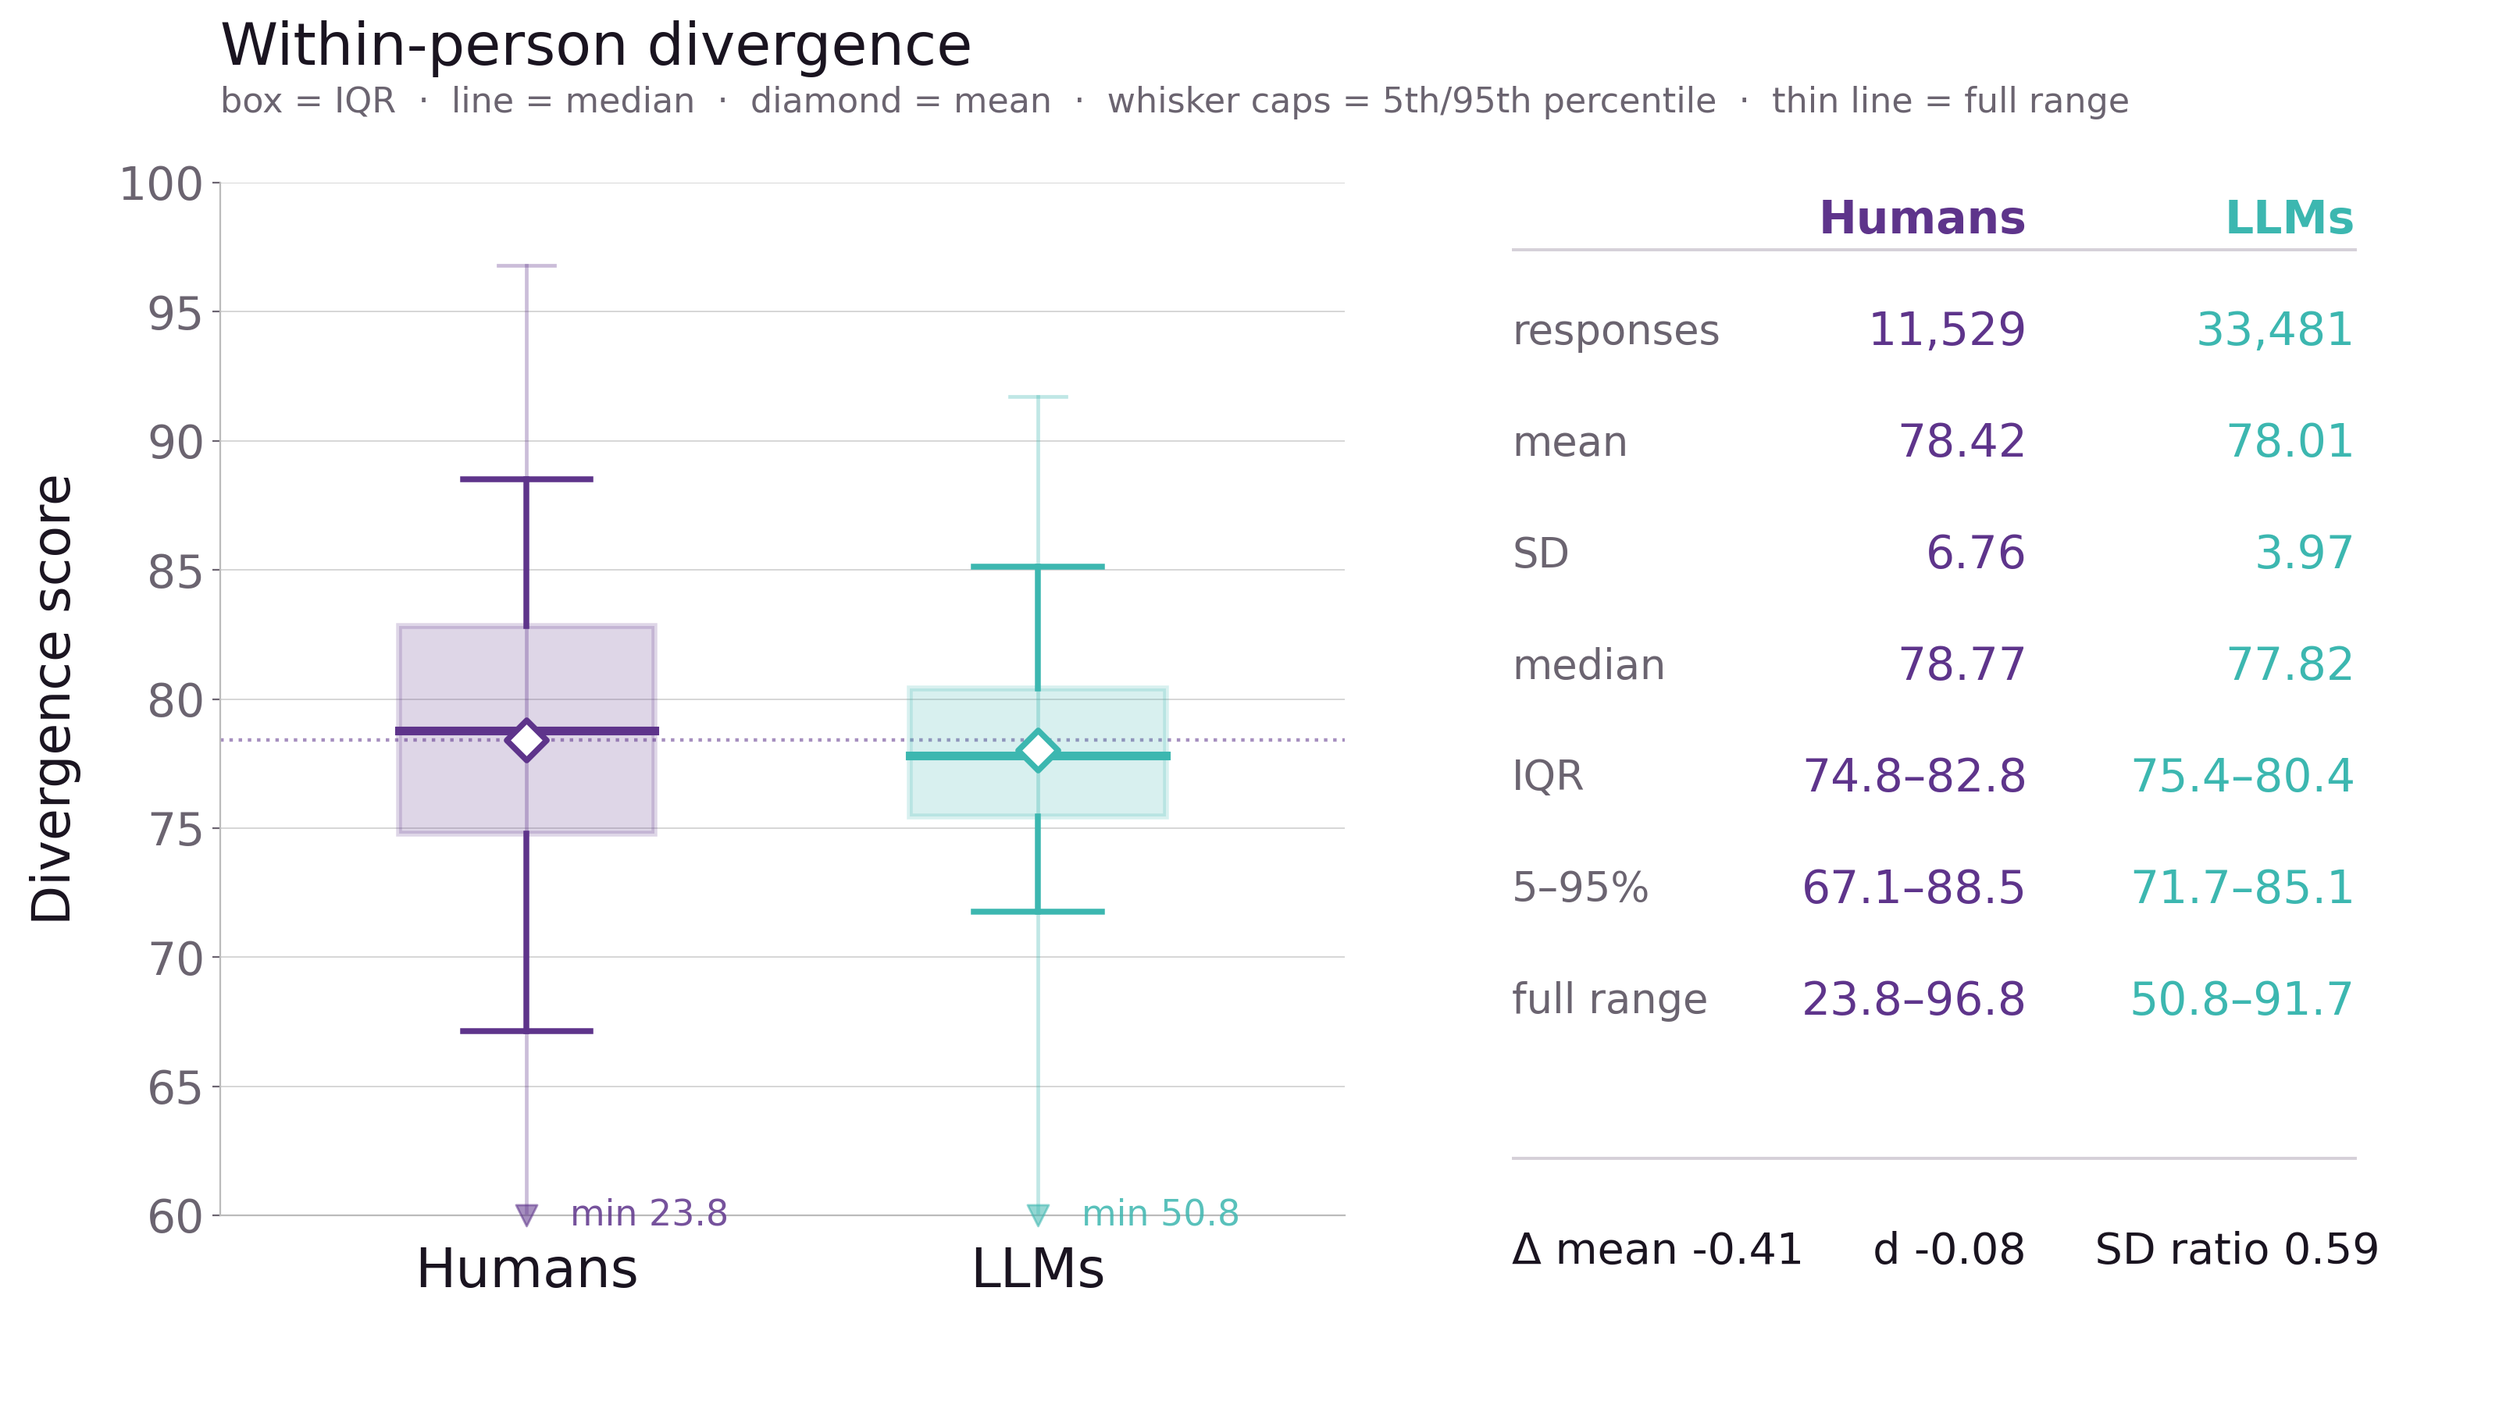
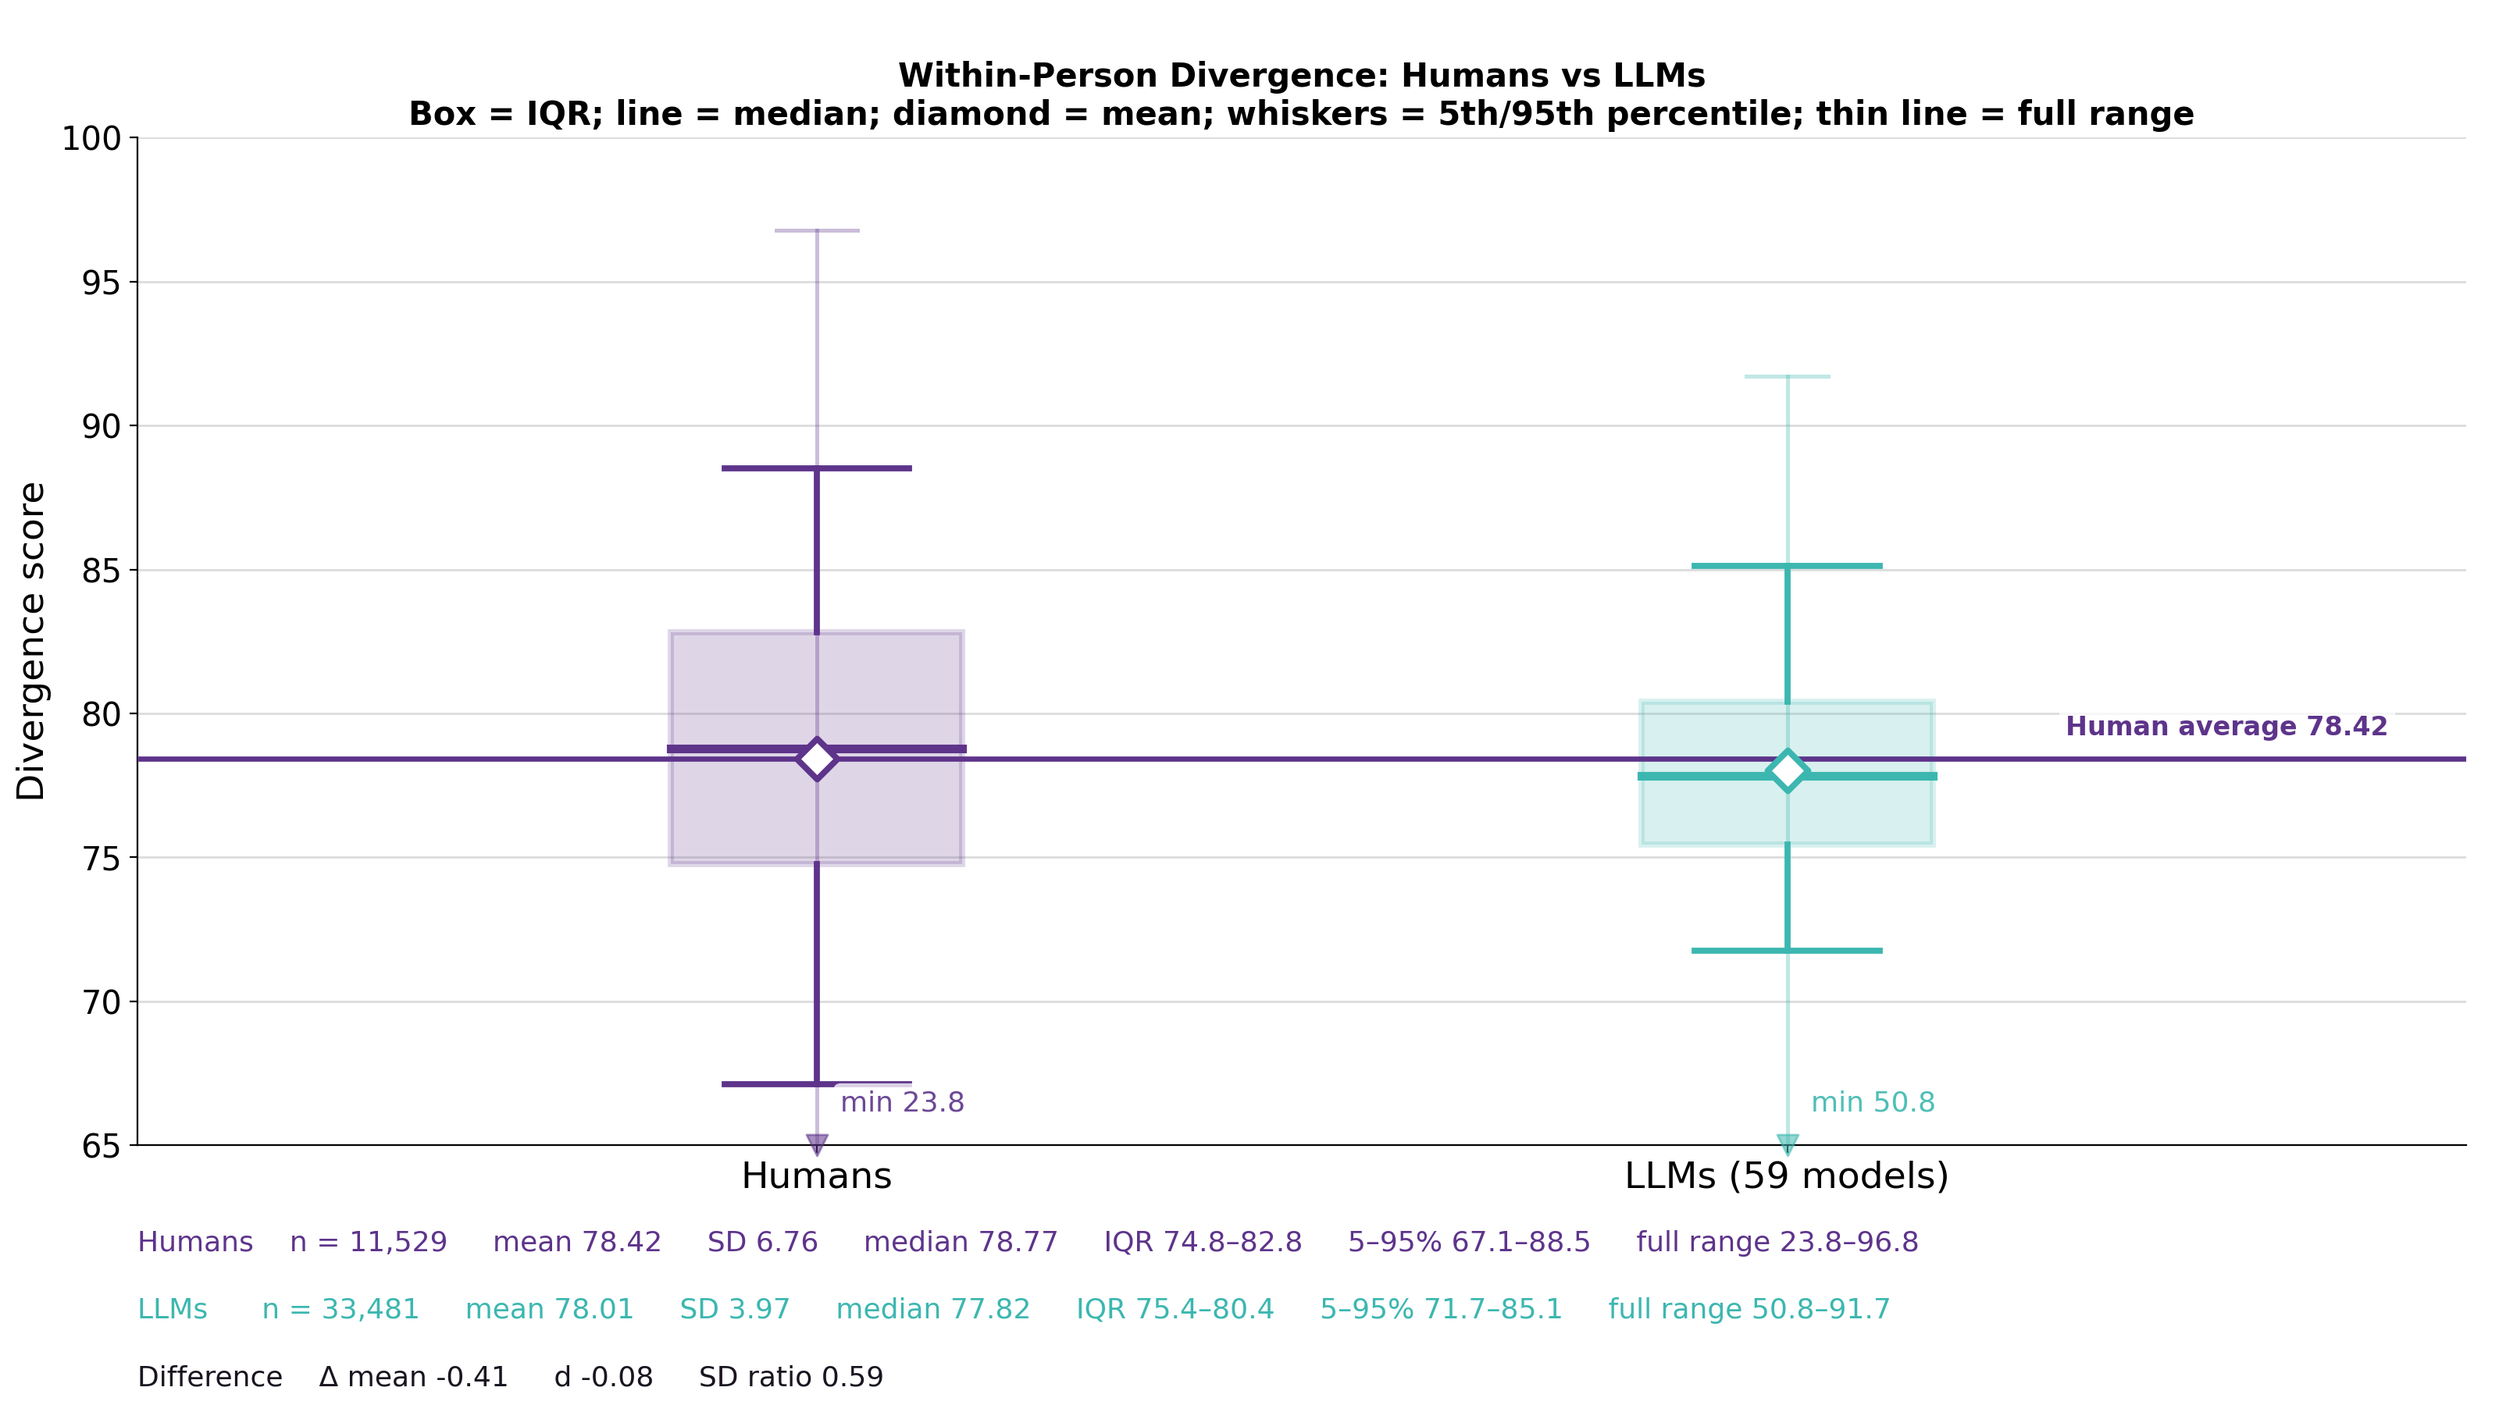
Style the cross-sectional figures from overtime_style
Set by Dawei: the box plots should look like the time series. They now import overtime_style
rather than carrying their own styling, so they share the 16:9 canvas, margins, grid colour and
weight, hidden top and right spines, title and axis-label sizes, and the human-baseline colour
and label treatment. Per the measure convention the human average is a solid line on the
within-person figure and dotted on the between-person one.

Y range 65 to 100 on both, step 5. Out-of-range bounds keep their caret and true value, now
labelled above the axis instead of on it.

diff --git a/analysis/fig6_cross_section_boxes.py b/analysis/fig6_cross_section_boxes.py
@@ -1,43 +1,42 @@
 """Cross-sectional comparison, two groups only: all humans vs all LLM responses.
 
   results/fig6_box_within_person.png   within-person divergence (DAT)
-  results/fig7_box_between_person.png  between-person uniqueness (human-only reference)
+  results/fig7_box_between_person.png  between-person uniqueness
 
-Reads the response-level scores written by build_overtime_data.py, so the measures can never
-drift from the over-time figures. Env: FIG_TITLE=0 drops the in-figure title (decks set their
-own headline); FIG_OUT overrides the output directory.
+Styling is imported from overtime_style, not copied, so these cannot drift from the three
+over-time figures: same 16:9 canvas, same margins, same grid, same spines, same title and
+label sizes, same human-baseline colour and label treatment. Per the measure convention the
+human baseline is a SOLID line on the within-person figure and DOTTED on the between-person one.
+
+Reads the response-level scores written by build_overtime_data.py.
+Env: FIG_BOX_YLIM (default "65,100"), FIG_BOX_YSTEP, FIG_NOTITLE / FIG_TITLE=0, FIG_OUT.
 """
 import os, sys, csv
-import numpy as np, matplotlib
-matplotlib.use("Agg")
-import matplotlib.pyplot as plt
+import numpy as np
+sys.path.insert(0, os.path.dirname(os.path.abspath(__file__)))
+from overtime_style import HUMAN_PURPLE, LBL_BOX, new_fig, save, plt, NOTITLE
 from matplotlib.patches import Rectangle
 
 ROOT = sys.argv[1] if len(sys.argv) > 1 else "/home/user/verify"
 DATA = os.environ.get("FIG_DATA", f"{ROOT}/analysis/data")
-OUT  = os.environ.get("FIG_OUT",  f"{ROOT}/results")
-SHOW_TITLE = os.environ.get("FIG_TITLE", "1") == "1"
-# One shared y range on both panels so the two measures are read on the same scale
-# (set by Dawei 2026-07-31). The human DAT tail runs below 50, so any series whose range
-# falls outside the window gets its true bound labelled at the axis rather than hidden.
-BOX_YLIM = tuple(float(x) for x in os.environ.get("FIG_BOX_YLIM", "60,100").split(","))
-BOX_YSTEP = float(os.environ.get("FIG_BOX_YSTEP", "5"))
+SHOW_TITLE = (not NOTITLE) and os.environ.get("FIG_TITLE", "1") == "1"
+YLIM  = tuple(float(x) for x in os.environ.get("FIG_BOX_YLIM", "65,100").split(","))
+YSTEP = float(os.environ.get("FIG_BOX_YSTEP", "5"))
 
-HUMAN, MACHINE = "#5E348B", "#3CB7B0"        # human purple / machine teal
-INK, MUTED, GRID = "#1a1420", "#6b6470", "#cccccc"
-
-def col(path, field, where=None):
-    out = []
-    with open(path, newline='') as fh:
-        for r in csv.DictReader(fh):
-            if where and not where(r): continue
-            v = r[field]
-            if v != "": out.append(float(v))
-    return np.array(out)
+MACHINE = "#3CB7B0"          # machine teal, as in every human-vs-machine figure
+INK, MUTED = "#1a1420", "#6b6470"
 
 H = f"{DATA}/response_scores_human.csv"
 M = f"{DATA}/response_scores_machine.csv"
-n_models = len({r['model_name'] for r in csv.DictReader(open(M))})
+N_MODELS = len({r['model_name'] for r in csv.DictReader(open(M))})
+MATCHED = lambda r: r['matched'] == '1'
+
+def col(path, field, where=None):
+    out = []
+    for r in csv.DictReader(open(path, newline='')):
+        if where and not where(r): continue
+        if r[field] != "": out.append(float(r[field]))
+    return np.array(out)
 
 def stats(v):
     q1, med, q3 = np.percentile(v, [25, 50, 75])
@@ -45,89 +44,76 @@ def stats(v):
     return dict(n=len(v), mean=v.mean(), sd=v.std(ddof=1), med=med, q1=q1, q3=q3,
                 p5=p5, p95=p95, lo=v.min(), hi=v.max())
 
-def box(ax, x, s, color, W=0.40):
+def box(ax, x, s, color, W=0.30):
     ylo, yhi = ax.get_ylim()
     lo, hi = max(s['lo'], ylo), min(s['hi'], yhi)
-    ax.plot([x, x], [lo, hi], color=color, lw=1.7, alpha=0.32, zorder=2)
-    for y, true_v, out in ((lo, s['lo'], s['lo'] < ylo), (hi, s['hi'], s['hi'] > yhi)):
-        if out:      # range continues past the axis: caret plus the true bound
-            ax.scatter([x], [y], marker='v' if true_v == s['lo'] else '^', s=95, color=color,
+    ax.plot([x, x], [lo, hi], color=color, lw=1.8, alpha=0.32, zorder=2)
+    for y, true_v in ((lo, s['lo']), (hi, s['hi'])):
+        outside = true_v < ylo or true_v > yhi
+        if outside:
+            ax.scatter([x], [y], marker='v' if true_v < ylo else '^', s=95, color=color,
                        alpha=0.55, zorder=3, clip_on=False)
-            ax.annotate(f"min {true_v:.1f}" if true_v == s['lo'] else f"max {true_v:.1f}",
-                        xy=(x + 0.085, y), ha='left', va='center', fontsize=16.5,
-                        color=color, alpha=0.85, zorder=7)
+            ax.annotate(("min " if true_v < ylo else "max ") + f"{true_v:.1f}", xy=(x, y),
+                        textcoords="offset points", xytext=(11, 13 if true_v < ylo else -13),
+                        ha='left', va='bottom' if true_v < ylo else 'top', fontsize=13,
+                        color=color, alpha=0.9, bbox=LBL_BOX, zorder=9)
         else:
-            ax.plot([x - 0.055, x + 0.055], [y, y], color=color, lw=1.7, alpha=0.32, zorder=2)
-    ax.plot([x, x], [s['p5'], s['q1']], color=color, lw=2.7, zorder=3)
-    ax.plot([x, x], [s['q3'], s['p95']], color=color, lw=2.7, zorder=3)
+            ax.plot([x - 0.042, x + 0.042], [y, y], color=color, lw=1.8, alpha=0.32, zorder=2)
+    ax.plot([x, x], [s['p5'], s['q1']], color=color, lw=2.8, zorder=3)
+    ax.plot([x, x], [s['q3'], s['p95']], color=color, lw=2.8, zorder=3)
     for y in (s['p5'], s['p95']):
-        ax.plot([x - 0.125, x + 0.125], [y, y], color=color, lw=2.7, zorder=3)
+        ax.plot([x - 0.095, x + 0.095], [y, y], color=color, lw=2.8, zorder=3)
     ax.add_patch(Rectangle((x - W/2, s['q1']), W, s['q3'] - s['q1'], facecolor=color, alpha=0.20,
-                           edgecolor=color, lw=2.7, zorder=4))
+                           edgecolor=color, lw=2.8, zorder=4))
     ax.plot([x - W/2, x + W/2], [s['med']] * 2, color=color, lw=4.0, zorder=5)
-    ax.scatter([x], [s['mean']], marker='D', s=170, facecolors='white', edgecolors=color,
-               linewidths=2.7, zorder=6)
+    ax.scatter([x], [s['mean']], marker='D', s=175, facecolors='white', edgecolors=color,
+               linewidths=2.8, zorder=6)
 
-ROWS = [("responses", lambda s: f"{s['n']:,}"),
-        ("mean",      lambda s: f"{s['mean']:.2f}"),
-        ("SD",        lambda s: f"{s['sd']:.2f}"),
-        ("median",    lambda s: f"{s['med']:.2f}"),
-        ("IQR",       lambda s: f"{s['q1']:.1f}\u2013{s['q3']:.1f}"),
-        ("5\u201395%",   lambda s: f"{s['p5']:.1f}\u2013{s['p95']:.1f}"),
-        ("full range",lambda s: f"{s['lo']:.1f}\u2013{s['hi']:.1f}")]
+def line(label, s, color):
+    return (f"{label}    n = {s['n']:,}     mean {s['mean']:.2f}     SD {s['sd']:.2f}     "
+            f"median {s['med']:.2f}     IQR {s['q1']:.1f}\u2013{s['q3']:.1f}     "
+            f"5\u201395% {s['p5']:.1f}\u2013{s['p95']:.1f}     "
+            f"full range {s['lo']:.1f}\u2013{s['hi']:.1f}"), color
 
-def table(fig, hs, ms, d):
-    ax = fig.add_axes([0.605, 0.135, 0.375, 0.735]); ax.axis('off')
-    ax.set_xlim(0, 1); ax.set_ylim(0, 1)
-    xl, xh, xm = 0.0, 0.55, 0.90
-    ax.text(xh, 0.985, "Humans", ha='right', va='top', fontsize=21, color=HUMAN, weight='bold')
-    ax.text(xm, 0.985, "LLMs",   ha='right', va='top', fontsize=21, color=MACHINE, weight='bold')
-    ax.plot([xl, xm], [0.935, 0.935], color='#d5d0d8', lw=1.4)
-    for i, (lab, f) in enumerate(ROWS):
-        y = 0.855 - i * 0.108
-        ax.text(xl, y, lab, ha='left', va='center', fontsize=19, color=MUTED)
-        ax.text(xh, y, f(hs), ha='right', va='center', fontsize=21, color=HUMAN)
-        ax.text(xm, y, f(ms), ha='right', va='center', fontsize=21, color=MACHINE)
-    ax.plot([xl, xm], [0.055, 0.055], color='#d5d0d8', lw=1.4)
-    ax.text(xl, -0.035, f"\u0394 mean {ms['mean']-hs['mean']:+.2f}     d {d:+.2f}     "
-                        f"SD ratio {ms['sd']/hs['sd']:.2f}",
-            ha='left', va='center', fontsize=20, color=INK)
-
-def render(hv, mv, ylab, title, sub, fname):
+def render(hv, mv, ylab, head, sub, within, fname):
     hs, ms = stats(hv), stats(mv)
-    d = (ms['mean'] - hs['mean']) / np.sqrt(((hs['n']-1)*hs['sd']**2 + (ms['n']-1)*ms['sd']**2) / (hs['n']+ms['n']-2))
-    fig = plt.figure(figsize=(16, 9))
-    ax = fig.add_axes([0.088, 0.135, 0.45, 0.735])
-    ax.set_ylim(*BOX_YLIM); ax.set_xlim(0.40, 2.60)
-    ax.set_yticks(np.arange(BOX_YLIM[0], BOX_YLIM[1] + 0.01, BOX_YSTEP))
-    ax.grid(axis='y', color=GRID, lw=0.7, alpha=0.8, zorder=0); ax.set_axisbelow(True)
-    ax.axhline(hs['mean'], color=HUMAN, lw=1.6, ls=':', alpha=0.55, zorder=1)
-    box(ax, 1.0, hs, HUMAN, W=0.50)
-    box(ax, 2.0, ms, MACHINE, W=0.50)
-    ax.set_xticks([1.0, 2.0]); ax.set_xticklabels(["Humans", "LLMs"], fontsize=25, color=INK)
-    ax.tick_params(axis='x', length=0, pad=14)
-    ax.tick_params(axis='y', labelsize=21, colors=MUTED)
-    ax.set_ylabel(ylab, fontsize=24, color=INK, labelpad=17)
-    for sp in ('top', 'right'): ax.spines[sp].set_visible(False)
-    for sp in ('left', 'bottom'): ax.spines[sp].set_color('#bbbbbb')
-    table(fig, hs, ms, d)
-    if SHOW_TITLE:
-        fig.text(0.088, 0.945, title, fontsize=27, color=INK, ha='left', va='bottom')
-        fig.text(0.088, 0.915, sub, fontsize=16, color=MUTED, ha='left', va='bottom')
-    else:
-        fig.text(0.088, 0.925, sub, fontsize=16, color=MUTED, ha='left', va='bottom')
-    fig.savefig(f"{OUT}/{fname}", dpi=200, facecolor='white')
-    plt.close(fig)
-    print(f"{fname}: human mean {hs['mean']:.2f} sd {hs['sd']:.2f} range {hs['lo']:.1f}-{hs['hi']:.1f} | "
-          f"machine mean {ms['mean']:.2f} sd {ms['sd']:.2f} range {ms['lo']:.1f}-{ms['hi']:.1f} | "
-          f"d {d:+.3f} sd ratio {ms['sd']/hs['sd']:.3f}")
+    d = (ms['mean'] - hs['mean']) / np.sqrt(((hs['n']-1)*hs['sd']**2 + (ms['n']-1)*ms['sd']**2)
+                                            / (hs['n']+ms['n']-2))
+    fig, ax = new_fig()
+    ax.set_xlim(0.30, 2.70); ax.set_ylim(*YLIM)
+    ax.set_yticks(np.arange(YLIM[0], YLIM[1] + 0.01, YSTEP))
+    ax.grid(which='major', axis='y', color='#dcdcdc', lw=1.0, zorder=0)
+    ax.set_axisbelow(True); ax.spines[['top', 'right']].set_visible(False)
 
-BOXNOTE = ("box = IQR  \u00b7  line = median  \u00b7  diamond = mean  \u00b7  "
-           "whisker caps = 5th/95th percentile  \u00b7  thin line = full range")
-MATCHED = lambda r: r['matched'] == '1'
-render(col(H, 'dat_score', MATCHED), col(M, 'dat_score'), "Divergence score",
-       "Within-person divergence", BOXNOTE, "fig6_box_within_person.png")
-# both panels use the identical matched human sample
-render(col(H, 'uniqueness_human_agnostic', MATCHED),
-       col(M, 'uniqueness_human_agnostic'), "Uniqueness score",
-       "Between-person uniqueness", BOXNOTE, "fig7_box_between_person.png")
+    # human mean: solid for the within-person measure, dotted for between-person
+    ax.plot([0.30, 2.70], [hs['mean']] * 2, '-' if within else ':', color=HUMAN_PURPLE,
+            lw=2.4, zorder=5)
+    ax.annotate(f"Human average {hs['mean']:.2f}", (2.62, hs['mean']), textcoords="offset points",
+                xytext=(0, 11), ha='right', fontsize=12, weight='bold', color=HUMAN_PURPLE,
+                bbox=LBL_BOX, zorder=9)
+
+    box(ax, 1.0, hs, HUMAN_PURPLE)
+    box(ax, 2.0, ms, MACHINE)
+    ax.set_xticks([1.0, 2.0])
+    ax.set_xticklabels(["Humans", f"LLMs ({N_MODELS} models)"], fontsize=17)
+    ax.set_ylabel(ylab, fontsize=17)
+    if SHOW_TITLE: ax.set_title(f"{head}\n{sub}", fontsize=15, weight='bold')
+
+    for i, (txt, c) in enumerate([line("Humans", hs, HUMAN_PURPLE), line("LLMs  ", ms, MACHINE)]):
+        fig.text(0.055, 0.115 - i * 0.048, txt, fontsize=13, color=c, ha='left', va='center')
+    fig.text(0.055, 0.019, f"Difference    \u0394 mean {ms['mean']-hs['mean']:+.2f}     d {d:+.2f}"
+             f"     SD ratio {ms['sd']/hs['sd']:.2f}", fontsize=13, color=INK, ha='left', va='center')
+    save(fig, fname)
+    print(f"{fname}: human {hs['mean']:.2f}/{hs['sd']:.2f} n={hs['n']}  "
+          f"machine {ms['mean']:.2f}/{ms['sd']:.2f} n={ms['n']}  d {d:+.3f}  ratio {ms['sd']/hs['sd']:.3f}")
+
+BOXNOTE = ("Box = IQR; line = median; diamond = mean; whiskers = 5th/95th percentile; "
+           "thin line = full range")
+
+render(col(H, 'dat_score', MATCHED), col(M, 'dat_score'),
+       "Divergence score", "Within-Person Divergence: Humans vs LLMs", BOXNOTE,
+       True, "fig6_box_within_person.png")
+
+render(col(H, 'uniqueness_human_agnostic', MATCHED), col(M, 'uniqueness_human_agnostic'),
+       "Uniqueness score", "Between-Person Uniqueness: Humans vs LLMs", BOXNOTE,
+       False, "fig7_box_between_person.png")
